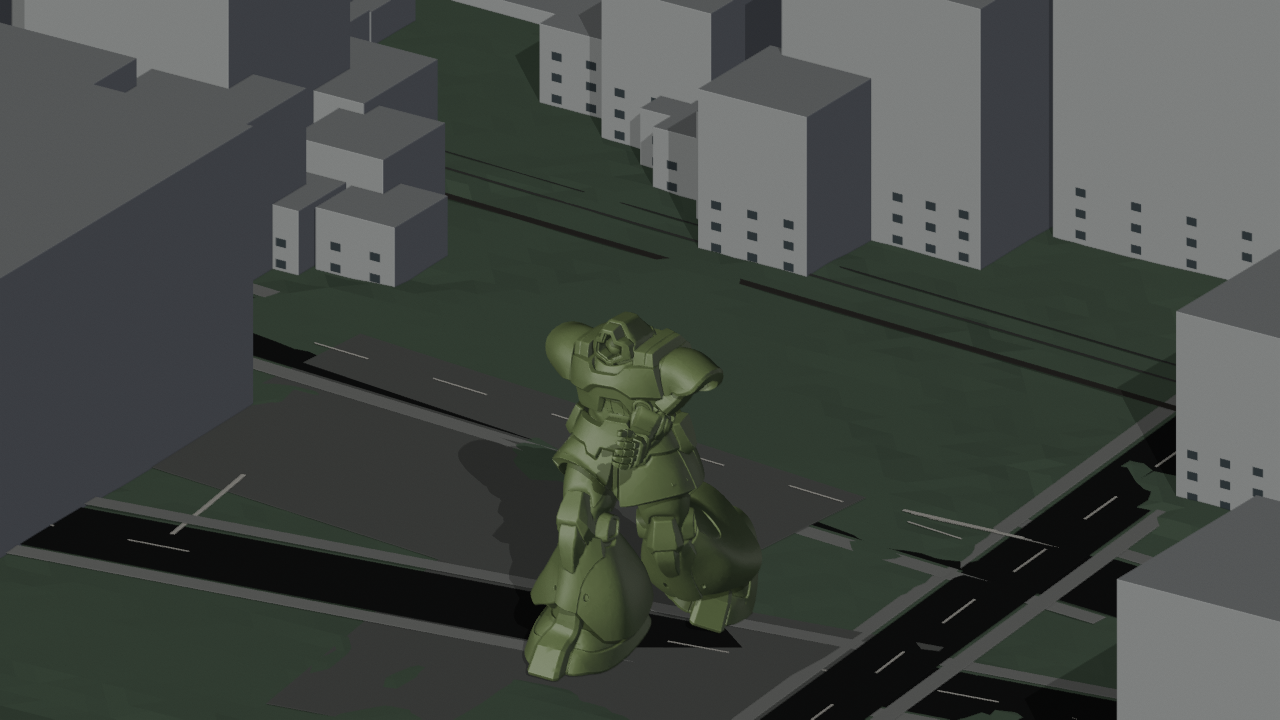
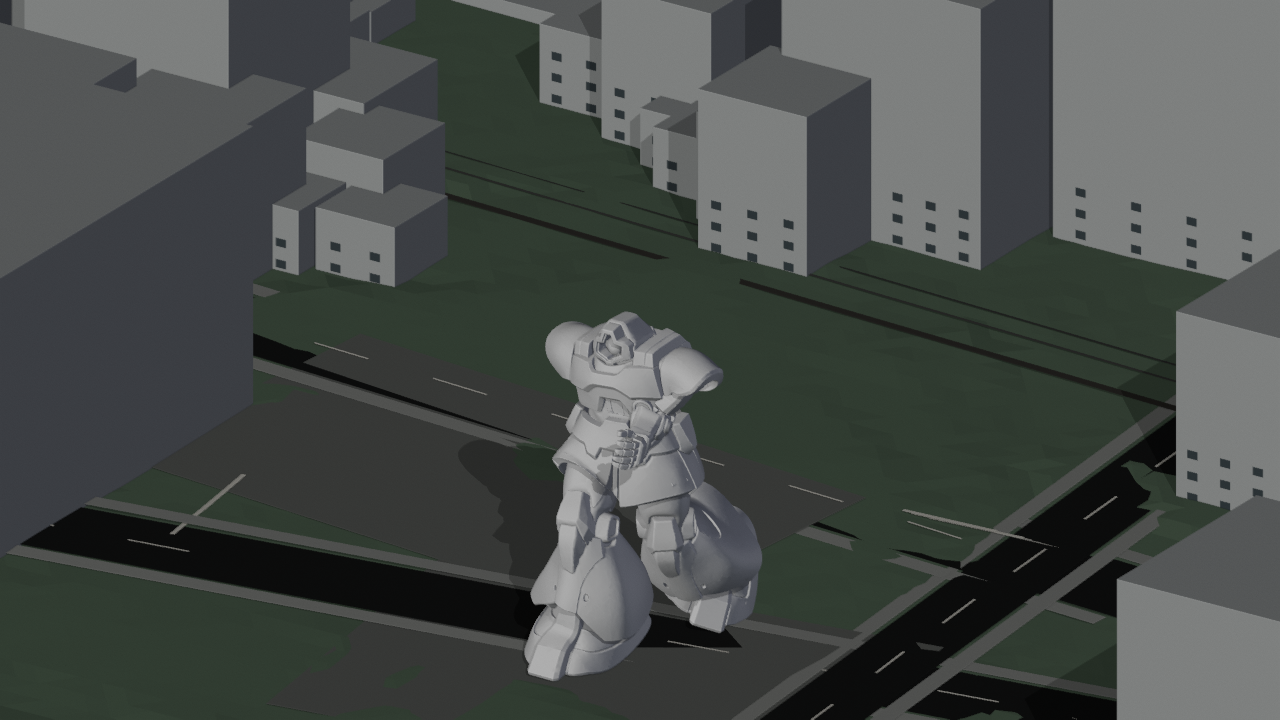
fix: preserve DOM source textures in render

Changed region(s): [[0.4062, 0.4278, 0.5938, 0.9472]]

diff --git a/projects/AtsugiMechaCity/render_hon_atsugi_station_from_plateau.py b/projects/AtsugiMechaCity/render_hon_atsugi_station_from_plateau.py
@@ -55,6 +55,39 @@ def make_principled_material(name, color, roughness=0.72, metallic=0.0):
     return mat
 
 
+def material_image_nodes(material):
+    if material is None or material.node_tree is None:
+        return []
+    images = []
+    for node in material.node_tree.nodes:
+        if node.bl_idname == "ShaderNodeTexImage" and getattr(node, "image", None):
+            images.append(node.image)
+    return images
+
+
+def mesh_material_report(mesh_objects):
+    material_names = []
+    image_names = []
+    packed_image_count = 0
+    for obj in mesh_objects:
+        for material in obj.data.materials:
+            if material is None:
+                continue
+            if material.name not in material_names:
+                material_names.append(material.name)
+            for image in material_image_nodes(material):
+                if image.name not in image_names:
+                    image_names.append(image.name)
+                    if image.packed_file:
+                        packed_image_count += 1
+    return {
+        "material_names": material_names,
+        "image_texture_names": image_names,
+        "image_texture_count": len(image_names),
+        "packed_image_count": packed_image_count,
+    }
+
+
 def world_bounds(objects):
     min_v = mathutils.Vector((float("inf"), float("inf"), float("inf")))
     max_v = mathutils.Vector((float("-inf"), float("-inf"), float("-inf")))
@@ -766,9 +799,15 @@ def main():
                 obj.hide_render = False
                 obj.hide_viewport = False
             scale_factor = normalize_imported_model(imported_model, model_meshes)
-            for part in model_meshes:
-                part.data.materials.clear()
-                part.data.materials.append(mecha_mat)
+            material_report = mesh_material_report(model_meshes)
+            if material_report["image_texture_count"] == 0:
+                for part in model_meshes:
+                    part.data.materials.clear()
+                    part.data.materials.append(mecha_mat)
+                material_report = mesh_material_report(model_meshes)
+                material_source = "fallback_single_material_no_texture_found"
+            else:
+                material_source = "source_fbx_or_blend_materials_preserved"
             place_imported_model(imported_model, model_meshes, mecha_x, mecha_y, mecha_z)
             mecha_min, mecha_max = evaluated_world_bounds(model_meshes)
             mecha_report = {
@@ -777,6 +816,8 @@ def main():
                 "rig_type": "Mixamo-rigged model frozen to posed static mesh",
                 "pose_frame": MIXAMO_POSE_FRAME,
                 "armatures": model_armature_names,
+                "material_source": material_source,
+                "materials": material_report,
                 "placement_xy": [round(mecha_x, 6), round(mecha_y, 6)],
                 "terrain_z": round(mecha_z, 6),
                 "terrain_nearest_distance": round(mecha_z_distance, 6),
